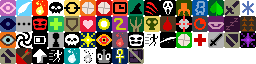
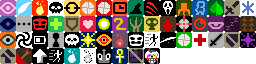
1.4: added scam potion

Changed region(s): [[0.5625, 0.75, 0.625, 1.0]]

diff --git a/core/src/main/java/com/zrp200/rkpd2/items/spells/ScammingSpell.java b/core/src/main/java/com/zrp200/rkpd2/items/spells/ScammingSpell.java
@@ -1,0 +1,60 @@
+package com.zrp200.rkpd2.items.spells;
+
+import com.watabou.noosa.audio.Sample;
+import com.watabou.utils.Random;
+import com.zrp200.rkpd2.Assets;
+import com.zrp200.rkpd2.actors.buffs.Buff;
+import com.zrp200.rkpd2.actors.buffs.Scam;
+import com.zrp200.rkpd2.actors.hero.Hero;
+import com.zrp200.rkpd2.effects.Speck;
+import com.zrp200.rkpd2.items.quest.Kromer;
+import com.zrp200.rkpd2.messages.Messages;
+import com.zrp200.rkpd2.sprites.ItemSprite;
+import com.zrp200.rkpd2.sprites.ItemSpriteSheet;
+import com.zrp200.rkpd2.utils.GLog;
+
+public class ScammingSpell extends Spell{
+
+    {
+        image = ItemSpriteSheet.ALCHEMIZE;
+    }
+
+    @Override
+    protected void onCast(Hero hero) {
+        Buff.prolong(hero, Scam.class, 21f);
+        hero.sprite.operate(hero.pos);
+        Sample.INSTANCE.play(Assets.Sounds.CURSED, 1f, 0.3f);
+        hero.sprite.emitter().burst( Speck.factory( Speck.STENCH ), 40);
+        GLog.p(Messages.get(this, "apply"));
+
+        detach( curUser.belongings.backpack );
+        updateQuickslot();
+        hero.spendAndNext( 1f );
+    }
+
+    @Override
+    public int value() {
+        return quantity * Random.Int(5, 890);
+    }
+
+    private static final ItemSprite.Glowing CHAOTIC = new ItemSprite.Glowing( 0.2f  );
+
+    @Override
+    public ItemSprite.Glowing glowing() {
+        return CHAOTIC;
+    }
+
+    public static class Recipe extends com.zrp200.rkpd2.items.Recipe.SimpleRecipe {
+
+        {
+            inputs =  new Class[]{Kromer.class, ArcaneCatalyst.class};
+            inQuantity = new int[]{1, 1};
+
+            cost = 12;
+
+            output = ScammingSpell.class;
+            outQuantity = 1;
+        }
+
+    }
+}

diff --git a/core/src/main/java/com/zrp200/rkpd2/actors/buffs/Scam.java b/core/src/main/java/com/zrp200/rkpd2/actors/buffs/Scam.java
@@ -1,0 +1,58 @@
+/*
+ * Pixel Dungeon
+ * Copyright (C) 2012-2015 Oleg Dolya
+ *
+ * Shattered Pixel Dungeon
+ * Copyright (C) 2014-2021 Evan Debenham
+ *
+ * This program is free software: you can redistribute it and/or modify
+ * it under the terms of the GNU General Public License as published by
+ * the Free Software Foundation, either version 3 of the License, or
+ * (at your option) any later version.
+ *
+ * This program is distributed in the hope that it will be useful,
+ * but WITHOUT ANY WARRANTY; without even the implied warranty of
+ * MERCHANTABILITY or FITNESS FOR A PARTICULAR PURPOSE.  See the
+ * GNU General Public License for more details.
+ *
+ * You should have received a copy of the GNU General Public License
+ * along with this program.  If not, see <http://www.gnu.org/licenses/>
+ */
+
+package com.zrp200.rkpd2.actors.buffs;
+
+import com.zrp200.rkpd2.messages.Messages;
+import com.zrp200.rkpd2.ui.BuffIndicator;
+
+public class Scam extends FlavourBuff {
+	
+	{
+		type = buffType.POSITIVE;
+		
+		announced = true;
+	}
+	
+	public static final float DURATION	= 10f;
+	
+	@Override
+	public int icon() {
+		return BuffIndicator.SCAM;
+	}
+
+	@Override
+	public float iconFadePercent() {
+		float duration = 20;
+		return Math.max(0, (duration - visualcooldown()) / duration);
+	}
+	
+	@Override
+	public String toString() {
+		return Messages.get(this, "name");
+	}
+	
+	@Override
+	public String desc() {
+		return Messages.get(this, "desc", dispTurns());
+	}
+	
+}

diff --git a/core/src/main/java/com/zrp200/rkpd2/actors/mobs/npcs/Shopkeeper.java b/core/src/main/java/com/zrp200/rkpd2/actors/mobs/npcs/Shopkeeper.java
@@ -23,10 +23,12 @@ package com.zrp200.rkpd2.actors.mobs.npcs;
 
 import com.watabou.noosa.Game;
 import com.watabou.utils.Callback;
+import com.watabou.utils.Random;
 import com.watabou.utils.Reflection;
 import com.zrp200.rkpd2.Dungeon;
 import com.zrp200.rkpd2.actors.Char;
 import com.zrp200.rkpd2.actors.buffs.Buff;
+import com.zrp200.rkpd2.actors.buffs.Scam;
 import com.zrp200.rkpd2.effects.CellEmitter;
 import com.zrp200.rkpd2.effects.particles.ElmoParticle;
 import com.zrp200.rkpd2.items.Heap;
@@ -98,7 +100,11 @@ public class Shopkeeper extends NPC {
 	// TODO really what should have been done is define a "base value" method so I don't have to duplicate things over and over.
 	public static int sellPrice(Item item){
 		int basePrice = Reflection.newInstance(item.getClass()).quantity(item.quantity()).value();
-		return (int)Math.ceil((basePrice*2+item.value())/3f * 5 * (Dungeon.getDepth() / 5 + 1));
+		int price = (int) Math.ceil((basePrice * 2 + item.value()) / 3f * 5 * (Dungeon.getDepth() / 5 + 1));
+		if (Dungeon.hero.buff(Scam.class) != null){
+			price = Random.Int(1, (int) (price*1.25f));
+		}
+		return price;
 	}
 	
 	public static WndBag sell() {

diff --git a/core/src/main/java/com/zrp200/rkpd2/ui/QuickRecipe.java b/core/src/main/java/com/zrp200/rkpd2/ui/QuickRecipe.java
@@ -352,6 +352,7 @@ public class QuickRecipe extends Component {
 				result.add(new QuickRecipe(new AquaBlast.Recipe()));
 				result.add(new QuickRecipe(new FeatherFall.Recipe()));
 				result.add(new QuickRecipe(new ReclaimTrap.Recipe()));
+				result.add(new QuickRecipe(new ScammingSpell.Recipe()));
 				result.add(null);
 				result.add(null);
 				result.add(new QuickRecipe(new CurseInfusion.Recipe()));

diff --git a/core/src/main/java/com/zrp200/rkpd2/ui/BuffIndicator.java b/core/src/main/java/com/zrp200/rkpd2/ui/BuffIndicator.java
@@ -98,6 +98,7 @@ public class BuffIndicator extends Component {
 	public static final int MOMENTUM    = 51;
 	public static final int ANKH        = 55;
 	public static final int NOINV       = 56;
+	public static final int SCAM        = 57;
 
 	public static final int SIZE    = 7;
 	public static final int FROSTBURN = 52;

diff --git a/core/src/main/java/com/zrp200/rkpd2/items/Recipe.java b/core/src/main/java/com/zrp200/rkpd2/items/Recipe.java
@@ -186,6 +186,7 @@ public abstract class Recipe {
 		new Recycle.Recipe(),
 		new WildEnergy.Recipe(),
 		new DoNotDieElixir.Recipe(),
+		new ScammingSpell.Recipe(),
 		new StewedMeat.twoMeat()
 	};
 	
